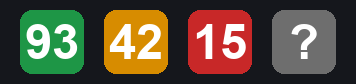
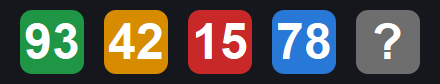
docs: imagenes de la representacion de bateria y del estado de carga

diff --git a/README.md b/README.md
@@ -6,9 +6,23 @@ El panel que se abre al hacer clic en el icono:
 
 ![Panel de la app](docs/screenshot.png)
 
-El icono en la bandeja del sistema muestra el porcentaje y cambia de color según el nivel (gris si no hay lectura):
+### Representación de la batería
+
+El icono en la bandeja del sistema muestra el porcentaje y cambia de color según el estado:
 
 ![Iconos de la bandeja](docs/tray.png)
+
+| Color | Significado |
+|---|---|
+| Verde | Más del 50 % |
+| Naranja | Entre 21 % y 50 % |
+| Rojo | 20 % o menos (además salta un aviso) |
+| Azul | Cargando |
+| Gris | Sin lectura (teclado apagado o receptor desconectado) |
+
+Con el cable conectado, la pila del panel pasa a azul con un rayo y el texto indica "cargando":
+
+![Panel con el teclado cargando](docs/charging.png)
 
 KOORUI no publica software para este teclado y, en modo 2.4 GHz, no hay forma de saber cuánta batería le queda. Esta app lo resuelve hablando directamente con el receptor USB mediante un protocolo obtenido por ingeniería inversa.
 

diff --git a/ROADMAP.md b/ROADMAP.md
@@ -1,6 +1,6 @@
 # Plan a futuro
 
-Estado actual: **v1.0.0**. Batería en la bandeja, panel con los 18 modos, color, brillo y velocidad, ejecutable para Windows.
+Estado actual: **v1.1.0**. Batería en la bandeja con detección de carga, panel con los 18 modos, color, brillo y velocidad, ejecutable para Windows.
 
 El plan está ordenado por prioridad. Primero va confirmar lo que hoy son suposiciones, porque varias funciones futuras dependen de ello.
 
